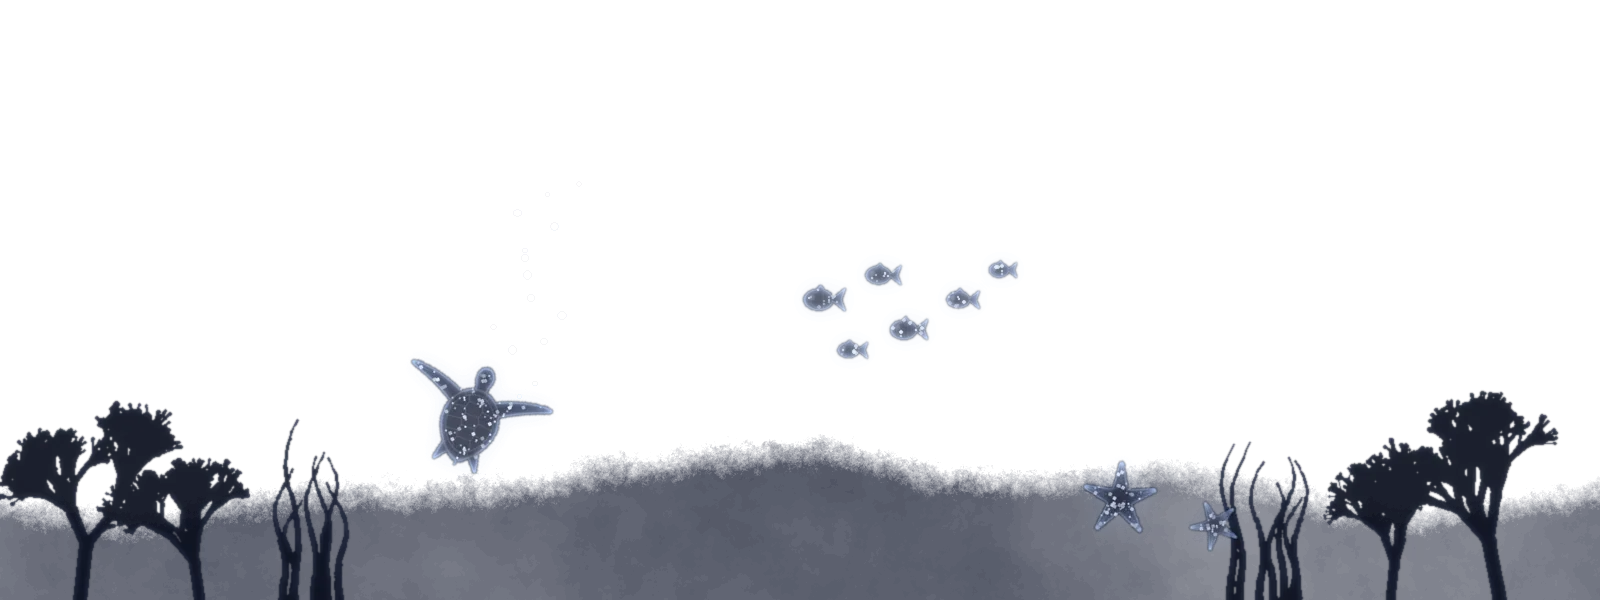
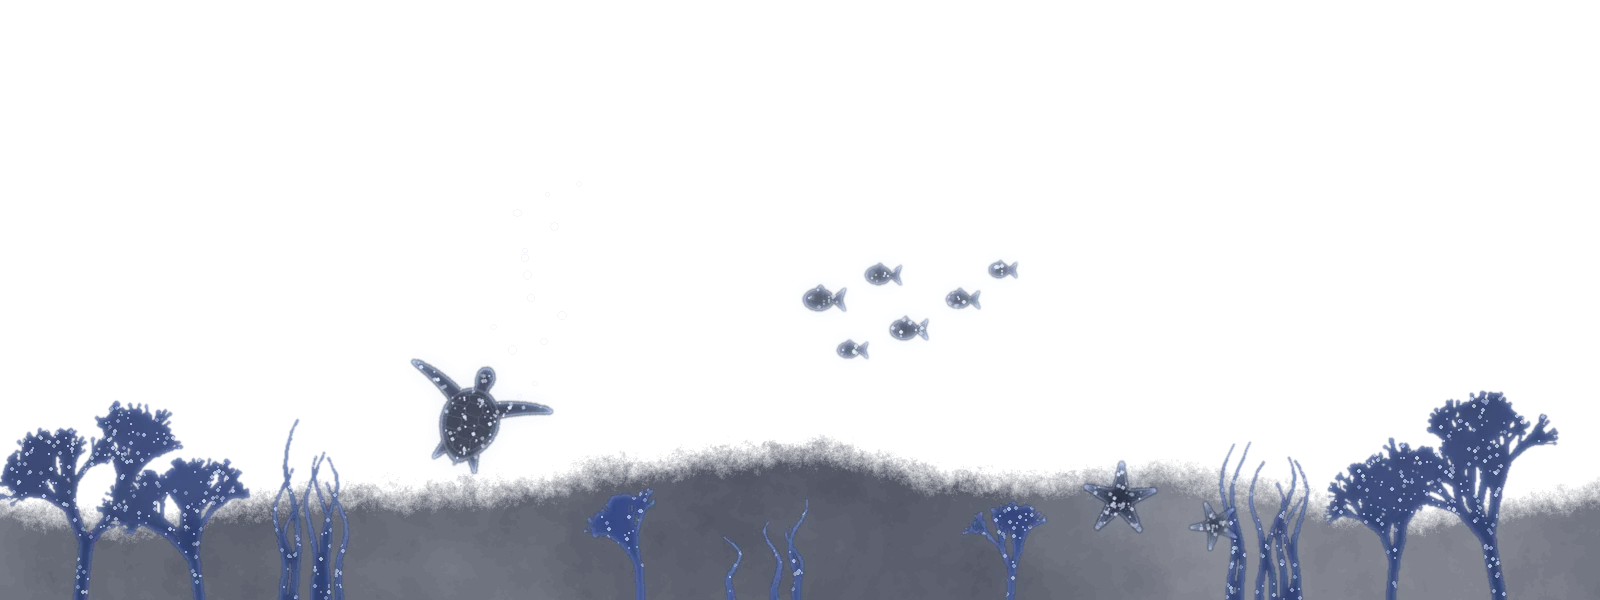
Home: visible coral, coral trees down the sides, clouds, scattered sea stars and fish
Coral was painted near-black and vanished into the sheet; it now uses a
lighter moonlit indigo with polyp speckles. New layers: side strips of small
coral trees on rock shelves with sea stars and fish (repeat down both edges),
a soft cloud tile, and a sparse sea star/fish tile for the gaps between rows.

diff --git a/scripts/paint/creatures.py b/scripts/paint/creatures.py
@@ -4,6 +4,9 @@
 #   rays.webp              faint light shafts coming down from the top of the sheet
 #   stars-tile.webp        seamless star dust with darker winding paths and a few sparkles
 #   waves-tile.webp        seamless, barely-there brushed swells
+#   clouds-tile.webp       seamless soft cloud banks, lit along their tops
+#   side-l/-r.webp         vertical strips: small coral trees on rock shelves, sea stars, passing fish
+#   scatter-tile.webp      a few sea stars and fish for the gaps between rows
 # Creatures come from the site's own sky-cast.js shapes (rendered by shapes.mjs),
 # painted the way whale sharks and mantas look at night: dark bodies covered
 # in pale spots, with a soft moonlit rim.
@@ -103,6 +106,35 @@ def weed(W, H, seed, x0, y0, height, n):
             d.line([pts[i], pts[i + 1]], fill=255, width=max(2, int(7 * (1 - i / len(pts))) + 2))
     return np.array(img.filter(ImageFilter.GaussianBlur(.7)), float) / 255
 
+CORAL = np.array([46, 64, 122.])
+
+def plants(c, seed, light=1.0, rough=.3):
+    """Coral, weed and rock masks painted a shade lighter than the sheet, moonlit at the edges, speckled with polyps."""
+    H, W = c.shape
+    m = blur((c + (fnoise(H, W, 1.0, seed) - .5) * rough > .35).astype(float), .8)
+    rim = np.clip(m - blur(m, 3), 0, 1) * 2
+    shade = .7 + .5 * fnoise(H, W, 1.6, seed + 1)
+    rgb = CORAL * shade[..., None] * light
+    rgb = rgb * (1 - rim[..., None] * .55) + RIM * (rim[..., None] * .55)
+    r = np.random.default_rng(seed)
+    ys, xs = np.nonzero(m > .6)
+    sp = Image.new('L', (W, H)); d = ImageDraw.Draw(sp)
+    for k in r.integers(0, len(xs), len(xs) // 90) if len(xs) else []:
+        s = r.uniform(.6, 1.5); d.ellipse([xs[k] - s, ys[k] - s, xs[k] + s, ys[k] + s], fill=int(r.uniform(90, 200)))
+    spa = np.array(sp, float)[..., None] / 255 * m[..., None]
+    rgb = rgb * (1 - spa) + SPOT * spa
+    return rgba(rgb, m * .9)
+
+def ledge(W, H, seed, y, length, left=True):
+    """A rough rock shelf sticking out from the side edge."""
+    r = np.random.default_rng(seed)
+    img = Image.new('L', (W, H)); d = ImageDraw.Draw(img)
+    x0 = 0 if left else W
+    for k in range(9):                                     # a pile of rounded stones, bumpy on top
+        cx = x0 + (1 if left else -1) * r.uniform(0, length * .85); w = r.uniform(.12, .3) * length; h = r.uniform(12, 30)
+        d.ellipse([cx - w, y - h, cx + w, y + h * .5], fill=255)
+    return np.array(img.filter(ImageFilter.GaussianBlur(1.2)), float) / 255
+
 # ---- top: two spotted mantas gliding past the heading, a fish further in ----
 top = Image.new('RGBA', (1600, 560))
 over(top, creature('manta', .62, 21, rot=-28, strength=.85), 1180, 270)
@@ -123,10 +155,9 @@ bot.alpha_composite(rgba(BODY * 1.1, fa))
 c = np.maximum.reduce([
     coral(W, H, 1, (80, 600), 1.45, 55, 5, 14), coral(W, H, 2, (200, 605), 1.7, 42, 5, 11),
     coral(W, H, 3, (1500, 600), 1.75, 58, 5, 14), coral(W, H, 4, (1390, 605), 1.45, 40, 5, 10),
-    weed(W, H, 5, 300, 600, 190, 7), weed(W, H, 6, 1270, 600, 170, 7)])
-ce = (c + (fnoise(H, W, 1.0, 7) - .5) * .3 > .35).astype(float)
-bot.alpha_composite(rgba(BODY * .7, blur(ce, .8) * .92))
-bot.alpha_composite(rgba(RIM, np.clip(blur(ce, .8) - blur(ce, 3), 0, 1) * .35))   # a little moonlight on the tips
+    coral(W, H, 8, (640, 600), 1.6, 34, 4, 9), coral(W, H, 9, (1010, 602), 1.5, 30, 4, 8),
+    weed(W, H, 5, 300, 600, 190, 7), weed(W, H, 6, 1270, 600, 170, 7), weed(W, H, 10, 760, 600, 110, 4)])
+bot.alpha_composite(plants(c, 7))
 over(bot, creature('turtle', .55, 51, rot=-20, strength=.85), 470, 420)
 over(bot, creature('star', .45, 61, rot=15, spots=1.6, strength=.8), 1120, 500)
 over(bot, creature('star', .3, 62, rot=-30, spots=1.6, strength=.7), 1215, 525)
@@ -197,4 +228,45 @@ for k in range(3):
     stroke = np.exp(-(d_ / width) ** 2) * np.clip((streak - .45) * 3, 0, 1)
     wa = np.maximum(wa, stroke * r.uniform(.05, .08))
 rgba(np.broadcast_to(MOON, (N, N, 3)), wa).save(f'{OUT}/waves-tile.webp', quality=80, alpha_quality=70, method=6)
+
+# ---- clouds: soft moonlit banks drifting through the water, lit on top ----
+n = fnoise(N, N, 2.6, 91)
+body = np.clip((n - .58) / .16, 0, 1) ** 1.5
+lit = np.clip(body - np.roll(blur(body, 6), 14, axis=0), 0, 1)       # the top edge catches the light
+ca = body * .14 + lit * .32
+rgba(np.broadcast_to(MOON * .9 + CREAM * .1, (N, N, 3)), np.clip(ca, 0, .4)).save(f'{OUT}/clouds-tile.webp', quality=78, alpha_quality=70, method=6)
+
+# ---- sides: small coral trees on rock shelves down both edges, sea stars on the rocks, fish passing ----
+# Each strip repeats vertically, so nothing touches its top or bottom edge.
+SW, SHt = 300, 1800
+def side(seed):
+    r = np.random.default_rng(seed)
+    s = Image.new('RGBA', (SW, SHt))
+    shelves = [(220 + k * 600 + r.uniform(-60, 60), r.uniform(90, 150)) for k in range(3)]
+    masks = []
+    for i, (y, ln) in enumerate(shelves):
+        masks.append(ledge(SW, SHt, seed + i, y, ln))
+        for t in range(r.integers(2, 4)):
+            x = r.uniform(12, ln * .85)
+            masks.append(coral(SW, SHt, seed * 10 + i * 4 + t, (x, y - 14), 1.57 + r.uniform(-.25, .25), r.uniform(24, 36), 3, r.uniform(4, 6)))
+        masks.append(weed(SW, SHt, seed * 20 + i, ln * .5, y - 4, r.uniform(60, 110), 3))
+    s.alpha_composite(plants(np.maximum.reduce(masks), seed, rough=.12))
+    for i, (y, ln) in enumerate(shelves):
+        over(s, creature('star', r.uniform(.24, .32), seed + 40 + i, rot=r.uniform(-40, 40), spots=1.6, strength=.85), r.uniform(25, ln * .7), y + 8)
+        fy = y + r.uniform(200, 380)
+        for f in range(r.integers(1, 4)):                              # a fish or a small school between shelves
+            over(s, creature('fish', r.uniform(.26, .36), seed + 60 + i * 5 + f, flip=r.random() < .5, spots=1.3, strength=.75),
+                 r.uniform(90, 230), fy + r.uniform(-30, 30) + f * 22)
+    return s
+side(3).save(f'{OUT}/side-l.webp', quality=80, alpha_quality=75, method=6)
+side(4).transpose(Image.FLIP_LEFT_RIGHT).save(f'{OUT}/side-r.webp', quality=80, alpha_quality=75, method=6)
+
+# ---- scattered sea stars and fish for the gaps between rows ----
+TW, TH = 1400, 1300
+sc = Image.new('RGBA', (TW, TH)); r = np.random.default_rng(5)
+for i in range(4):
+    over(sc, creature('star', r.uniform(.2, .3), 100 + i, rot=r.uniform(-60, 60), spots=1.6, strength=.6), r.uniform(80, TW - 80), r.uniform(80, TH - 80))
+for i in range(6):
+    over(sc, creature('fish', r.uniform(.24, .34), 110 + i, flip=r.random() < .5, spots=1.3, strength=.6), r.uniform(80, TW - 80), r.uniform(80, TH - 80))
+sc.save(f'{OUT}/scatter-tile.webp', quality=80, alpha_quality=75, method=6)
 print('ok')

diff --git a/scripts/paint/README.md b/scripts/paint/README.md
@@ -4,6 +4,6 @@ Generators for `public/images/paint/` (the watercolour sheet behind Selected wor
 
 1. `node scripts/paint/shapes.mjs <shapes-dir>` renders each creature's field and digit drawing from `public/scripts/sky-cast.js`.
 2. `python scripts/paint/wash.py <out-dir>` makes `wash-tile.webp` and the brush edge (`wash-edge.webp`, flipped for `wash-edge-b.webp`, resized to 1600x280).
-3. `python scripts/paint/creatures.py <shapes-dir> <out-dir>` paints `creatures-top.webp`, `creatures-bottom.webp`, `stars-tile.webp` and `waves-tile.webp`.
+3. `python scripts/paint/creatures.py <shapes-dir> <out-dir>` paints `creatures-top.webp`, `creatures-bottom.webp`, `rays.webp`, `stars-tile.webp`, `waves-tile.webp`, `clouds-tile.webp`, `side-l.webp`, `side-r.webp` and `scatter-tile.webp`.
 
 Needs Python with numpy and Pillow, and Playwright with Chrome for step 1.
